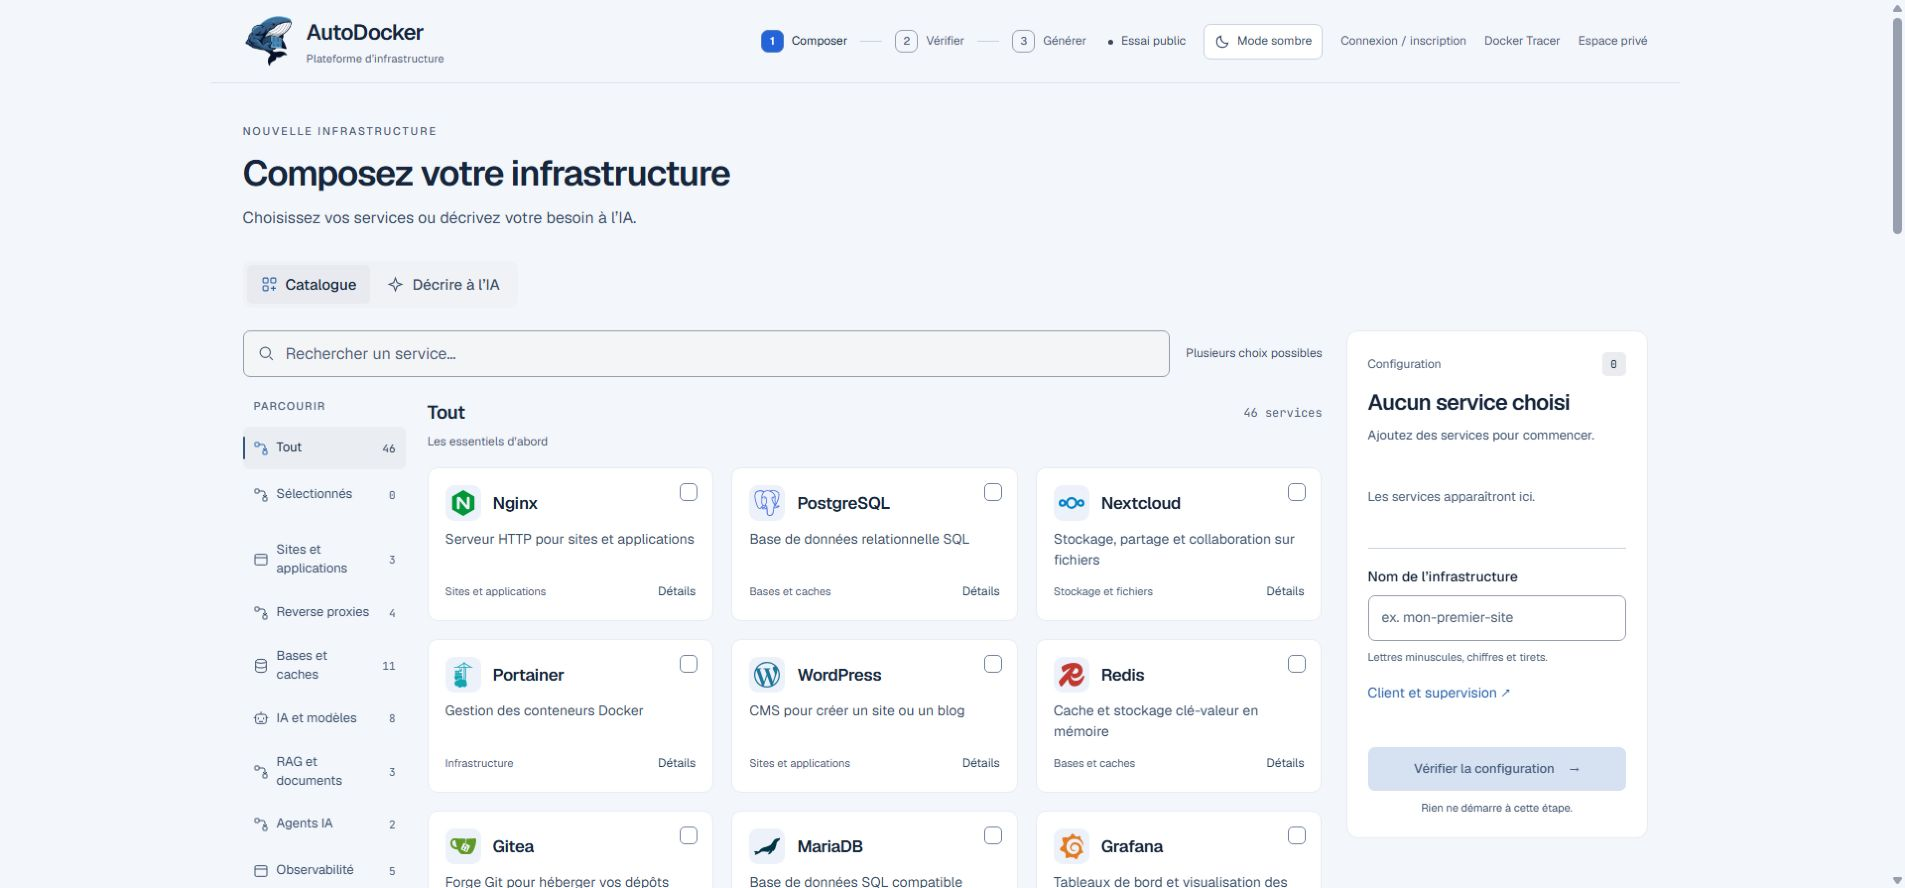
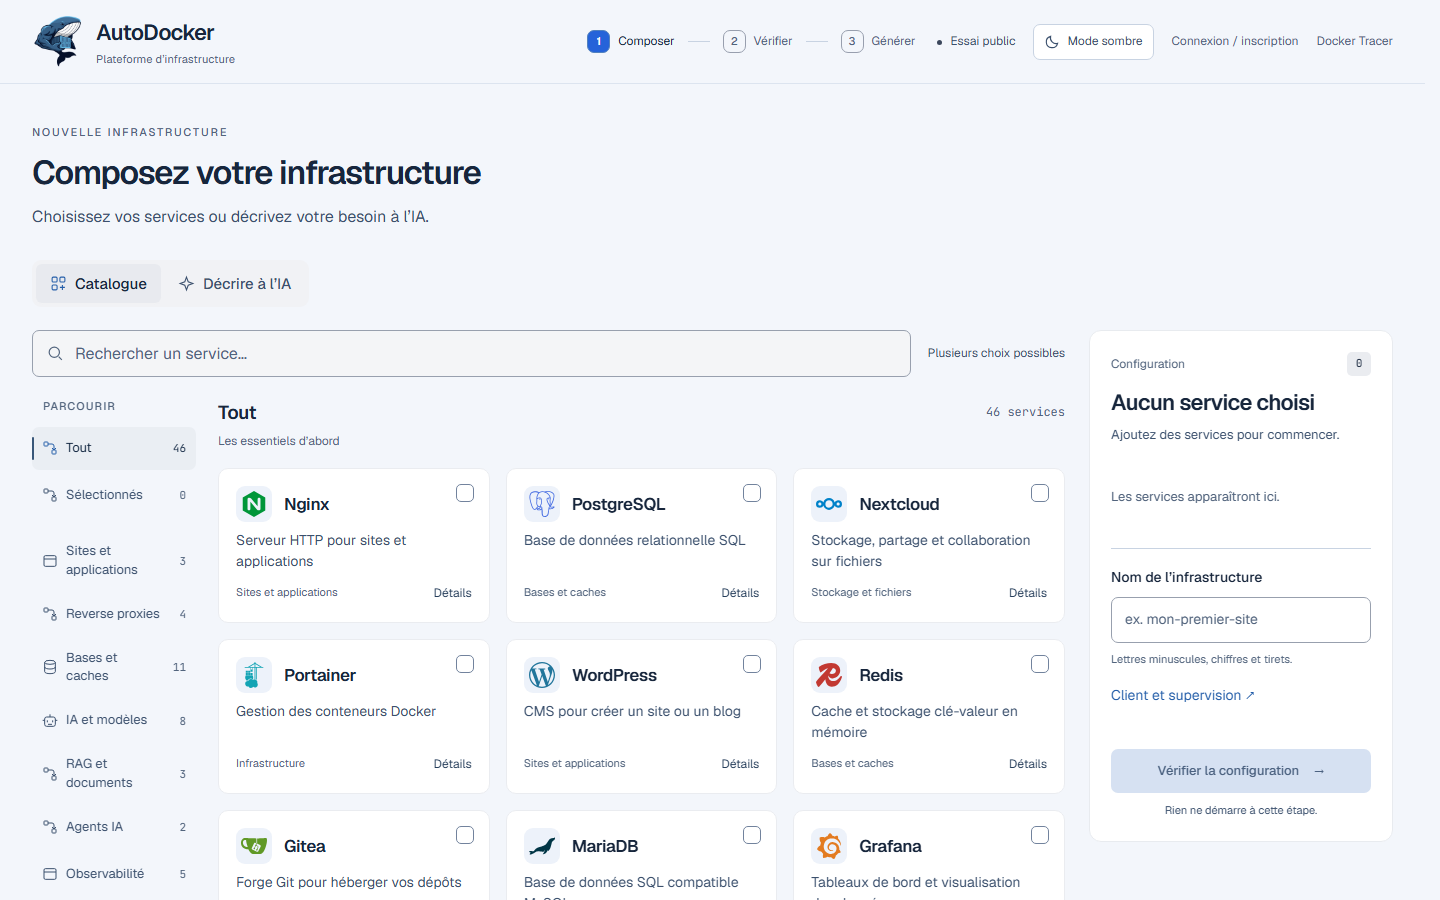
docs: clarify README and add visual demonstrations

diff --git a/README.md b/README.md
@@ -1,64 +1,71 @@
+<div align="center">
+
+<img src="docs/assets/logo.png" alt="Logo AutoDocker" width="200">
+
 # AutoDocker
 
-<img src="docs/assets/logo.png" alt="Logo AutoDocker" width="180">
+**Créer une infrastructure Docker, du besoin au fichier Compose.**
 
-AutoDocker aide à créer une infrastructure Docker à partir d'un formulaire ou d'une demande en langage naturel. L'application locale peut aussi se connecter à Docker ou Docker Desktop et à une IA locale (Ollama, LM Studio, vLLM) ou à une API, depuis l'interface graphique. La génération manuelle reste utilisable sans fournisseur d'IA ni moteur Docker.
+Choisissez vos services ou décrivez votre idée à l’IA, vérifiez la configuration et exportez votre infrastructure.
 
-**Essayer en ligne :** [autodocker.eu/essai](https://autodocker.eu/essai/) - génération, export et visualisation d'un fichier Compose. L'essai public dispose d'une IA réelle avec quota. Il n'expose pas les fonctions locales de gestion de l'hôte Docker.
+[![Essayer en ligne](https://img.shields.io/badge/Essayer_en_ligne-2864D9?style=for-the-badge)](https://autodocker.eu/essai/)
+[![Télécharger Windows x64](https://img.shields.io/badge/Windows_x64-142641?style=for-the-badge)](https://github.com/caroneloham/autodocker/releases/download/v0.1.0-beta.7/AutoDocker-Windows-x64-preview.zip)
+[![Télécharger Linux x64](https://img.shields.io/badge/Linux_x64-142641?style=for-the-badge)](https://github.com/caroneloham/autodocker/releases/download/v0.1.0-beta.7/AutoDocker-Linux-x64-preview.tar.gz)
 
-**Installer sur son ordinateur :** [télécharger la dernière version pour Windows ou Linux](https://github.com/caroneloham/autodocker/releases), extraire l'archive complète et lancer le script fourni. Le premier lancement ouvre la création du compte propriétaire. Les comptes, projets et réglages restent dans le dossier extrait ; gardez ce dossier pour conserver vos données. Docker est nécessaire pour inspecter ou gérer des conteneurs, mais pas pour générer des fichiers.
+Version **0.1.0-beta.7** · [Toutes les versions](https://github.com/caroneloham/autodocker/releases) · [Documentation](#documentation)
 
-![Interface AutoDocker](docs/assets/demo.png)
+</div>
 
-## Construire depuis les sources
+![AutoDocker : catalogue de services et configuration d’une infrastructure](docs/assets/demo.png)
 
-Il faut Go **1.26.10** ou une version compatible avec [`go.mod`](go.mod). Les lancements locaux ci-dessous restent limités à `127.0.0.1` et créent un compte propriétaire sans mot de passe prédéfini. Leur état est placé dans `.local/state/`, ignoré par Git. N'exposez pas ce mode local sur le réseau.
+## Ce que vous pouvez faire
 
-```sh
-go test ./...
-go build -o autodocker .
-```
+| Composer | Utiliser votre IA | Vérifier | Exporter |
+| :--- | :--- | :--- | :--- |
+| Sélectionner les services dans le catalogue et régler leur configuration. | Brancher Ollama, LM Studio, vLLM ou une API depuis l’interface locale. | Relire la configuration et visualiser les services et leurs connexions. | Récupérer les fichiers de l’infrastructure pour préparer son déploiement. |
 
-Sous Linux, lancez `sh scripts/run-local.sh`. Sous Windows, lancez `scripts\run-local.cmd` après avoir installé Go. Ces scripts utilisent `go run .` et ouvrent l'interface sur `http://127.0.0.1:18743`. Dans **Mon compte**, vous pouvez ensuite choisir une IA locale ou une API et connecter Docker depuis l'interface. Aucun identifiant ni clé d'API n'est inclus dans ce dépôt.
+La génération manuelle fonctionne sans IA et sans moteur Docker. L’application locale peut se connecter à Docker ou Docker Desktop depuis **Mon compte**.
 
-## Essai public et visualiseur Docker Tracer
+<details>
+<summary><strong>Voir une courte démonstration</strong></summary>
 
-`cmd/trial` est un serveur distinct : génération et export sans compte, IA soumise à quota, comptes réservés à l'essai. Il ne déclare aucune route de terminal, de déploiement Docker ou de gestion de l'hôte. Son visualiseur de fichier Compose est construit à partir du projet frère [Docker Tracer](https://github.com/caroneloham/docker-tracer). **Le code source de Docker Tracer n'est pas copié ici.**
+![Démonstration de l’interface AutoDocker](docs/assets/demo.gif)
 
-La construction de cette interface demande aussi Node.js et npm.
+</details>
 
-Pour préparer l'interface complète de l'essai dans un clone local :
+## Démarrer
 
-```sh
-git clone https://github.com/caroneloham/autodocker.git
-git clone https://github.com/caroneloham/docker-tracer.git
-cd docker-tracer
-npm ci
-npm run build:browser
-cd ../autodocker
-python scripts/build-trial-ui.py
-go build -o autodocker-trial ./cmd/trial
-```
+### Dans le navigateur
 
-Placez les deux dépôts côte à côte. `npm run build:browser` construit le visualiseur depuis les sources de Docker Tracer ; le script Python l'assemble dans `cmd/trial/ui/tracer/` avec l'interface de l'essai. Ce répertoire généré n'est pas versionné ; il faut reconstruire l'interface après un clone avant d'utiliser `/essai/tracer/`. Le serveur d'essai sert les fichiers de `cmd/trial/ui/` depuis son répertoire de travail, ou depuis le chemin défini par `AUTODOCKER_TRIAL_ASSETS`.
+Ouvrez [autodocker.eu/essai](https://autodocker.eu/essai/), composez votre infrastructure et exportez vos fichiers. L’IA de l’essai est soumise à un quota : deux demandes par jour sans compte, puis cinq avec un compte. Les [limites détaillées](docs/Essai-public.md) sont documentées.
 
-Pour un essai **strictement local**, fournissez ces variables d'environnement au processus `go run ./cmd/trial` :
+L’essai permet de générer, exporter et visualiser un Compose. La gestion d’un hôte Docker est disponible dans l’application locale.
 
-| Variable | Usage |
-| --- | --- |
-| `AUTODOCKER_TRIAL_LOCAL=1` | Cookie de session adapté à HTTP pour un lancement strictement local ; gardez l'adresse d'écoute par défaut. |
-| `AUTODOCKER_TRIAL_QUOTA_FILE` | Chemin d'un fichier JSON de quotas dans un dossier privé et inscriptible. |
-| `AUTODOCKER_TRIAL_ACCOUNTS_FILE` | Chemin d'un fichier JSON de comptes dans un dossier privé et inscriptible. |
-| `GEMINI_API_KEY` ou `OPENROUTER_API_KEY` | Clé du fournisseur d'IA, fournie hors dépôt. |
+### Sur votre ordinateur
 
-Le serveur est alors accessible sur `http://127.0.0.1:18082/essai/`. Pour l'hébergement public, le mode local doit être désactivé : fournir une clé de cookie stable de 32 octets bruts via `AUTODOCKER_TRIAL_COOKIE_KEY_FILE`, limiter l'écoute au mandataire HTTPS de confiance et conserver les fichiers d'état hors du dépôt. `AUTODOCKER_TRIAL_ADDR` règle l'adresse d'écoute. Le fichier Compose chargé dans le visualiseur est interprété dans le navigateur ; la carte montre la déclaration, sans vérifier l'état réel d'un hôte Docker.
+| Windows x64 | Linux x64 |
+| :--- | :--- |
+| [Télécharger le ZIP](https://github.com/caroneloham/autodocker/releases/download/v0.1.0-beta.7/AutoDocker-Windows-x64-preview.zip), puis l’extraire entièrement. | [Télécharger l’archive](https://github.com/caroneloham/autodocker/releases/download/v0.1.0-beta.7/AutoDocker-Linux-x64-preview.tar.gz), puis l’extraire entièrement. |
+| Double-cliquer sur **Lancer AutoDocker.cmd**. | Ouvrir un terminal dans le dossier et lancer `./lancer-autodocker.sh`. |
 
-Les limites actuelles de l'IA sont **2 demandes par cookie invité et par jour UTC**, avec un plafond additionnel de **6 par IP et par jour**, puis **5 par compte et par jour** ; le plafond commun est **40 demandes par jour**. Une demande est exécutée à la fois et une autre peut patienter. Les autres limites de requêtes et d'inscription se trouvent dans `cmd/trial`. Les quotas limitent les abus ordinaires, sans constituer une protection absolue. Un compte d'essai n'a actuellement ni vérification d'adresse e-mail ni récupération de mot de passe.
+Le navigateur s’ouvre pour créer votre compte propriétaire. Dans **Mon compte**, vous pouvez ensuite connecter Docker et choisir votre IA. Les comptes, projets et réglages restent dans le dossier extrait : conservez-le pour garder vos données.
 
-## Portée et licence
+## Deux projets complémentaires
 
-Les fichiers générés doivent être relus avant un déploiement réel. Une prévisualisation ne prouve pas qu'une infrastructure est adaptée ou sûre en production. L'IA dépend d'un fournisseur configuré par l'utilisateur ou l'exploitant.
+**AutoDocker** aide à créer l’infrastructure initiale. **[Docker Tracer](https://github.com/caroneloham/docker-tracer)** permet d’explorer un Compose sur une carte, d’éditer sa configuration et, en local, de travailler sur une installation Docker existante.
 
-Ce dépôt est publié sous la [licence AutoDocker et Docker Tracer 1.0](LICENSE), **à code source accessible**. L'usage en entreprise, les modifications et la vente des infrastructures ou prestations produites sont permis selon ses conditions. La vente du logiciel ou d'un accès SaaS payant est interdite. Ce n'est **pas** une licence open source approuvée par l'OSI. Les composants tiers conservent leurs propres licences et marques ; voir [les notices](docs/attributions/Logos-et-marques.txt).
+## Documentation
 
-Les contributions sont décrites dans [CONTRIBUTING.md](CONTRIBUTING.md), et le signalement responsable de vulnérabilités dans [SECURITY.md](SECURITY.md).
+- [Développer depuis les sources](docs/Developper.md) : prérequis Go, tests et lancement local.
+- [Construire et héberger l’essai public](docs/Essai-public.md) : Docker Tracer, configuration et quotas.
+- [Contribuer](CONTRIBUTING.md) · [Signaler une vulnérabilité](SECURITY.md) · [Logos et marques](docs/attributions/Logos-et-marques.txt).
+
+## État du projet et licence
+
+AutoDocker est en **bêta**. Relisez les fichiers générés avant un déploiement réel. La configuration d’une IA et les fonctions Docker dépendent des services que vous connectez. Le serveur local reste sur `127.0.0.1` et ne doit pas être exposé directement sur Internet.
+
+Le code est accessible sous la [licence AutoDocker et Docker Tracer 1.0](LICENSE). L’usage en entreprise, les modifications et la vente des infrastructures produites sont permis selon ses conditions. La vente du logiciel ou d’un accès SaaS payant est interdite. Cette licence n’est pas une licence open source approuvée par l’OSI. Les composants tiers conservent leurs propres conditions.
+
+## Remerciements
+
+Merci à [IngéPLUS](https://inge-plus.fr/avr-2026-bourses-ia-bac3-ingeplus-accompagne-les-talents-de-bts-vers-les-metiers-de-lia/) pour son soutien financier à travers la bourse qui m’avait été accordée à l’époque.

diff --git a/docs/Essai-public.md b/docs/Essai-public.md
@@ -1,0 +1,36 @@
+# Construire et héberger l’essai public
+
+[Retour au README](../README.md)
+
+
+`cmd/trial` est un serveur distinct : génération et export sans compte, IA soumise à quota, comptes réservés à l'essai. Il ne déclare aucune route de terminal, de déploiement Docker ou de gestion de l'hôte. Son visualiseur de fichier Compose est construit à partir du projet frère [Docker Tracer](https://github.com/caroneloham/docker-tracer). **Le code source de Docker Tracer n'est pas copié ici.**
+
+La construction de cette interface demande aussi Node.js et npm.
+
+Pour préparer l'interface complète de l'essai dans un clone local :
+
+```sh
+git clone https://github.com/caroneloham/autodocker.git
+git clone https://github.com/caroneloham/docker-tracer.git
+cd docker-tracer
+npm ci
+npm run build:browser
+cd ../autodocker
+python scripts/build-trial-ui.py
+go build -o autodocker-trial ./cmd/trial
+```
+
+Placez les deux dépôts côte à côte. `npm run build:browser` construit le visualiseur depuis les sources de Docker Tracer ; le script Python l'assemble dans `cmd/trial/ui/tracer/` avec l'interface de l'essai. Ce répertoire généré n'est pas versionné ; il faut reconstruire l'interface après un clone avant d'utiliser `/essai/tracer/`. Le serveur d'essai sert les fichiers de `cmd/trial/ui/` depuis son répertoire de travail, ou depuis le chemin défini par `AUTODOCKER_TRIAL_ASSETS`.
+
+Pour un essai **strictement local**, fournissez ces variables d'environnement au processus `go run ./cmd/trial` :
+
+| Variable | Usage |
+| --- | --- |
+| `AUTODOCKER_TRIAL_LOCAL=1` | Cookie de session adapté à HTTP pour un lancement strictement local ; gardez l'adresse d'écoute par défaut. |
+| `AUTODOCKER_TRIAL_QUOTA_FILE` | Chemin d'un fichier JSON de quotas dans un dossier privé et inscriptible. |
+| `AUTODOCKER_TRIAL_ACCOUNTS_FILE` | Chemin d'un fichier JSON de comptes dans un dossier privé et inscriptible. |
+| `GEMINI_API_KEY` ou `OPENROUTER_API_KEY` | Clé du fournisseur d'IA, fournie hors dépôt. |
+
+Le serveur est alors accessible sur `http://127.0.0.1:18082/essai/`. Pour l'hébergement public, le mode local doit être désactivé : fournir une clé de cookie stable de 32 octets bruts via `AUTODOCKER_TRIAL_COOKIE_KEY_FILE`, limiter l'écoute au mandataire HTTPS de confiance et conserver les fichiers d'état hors du dépôt. `AUTODOCKER_TRIAL_ADDR` règle l'adresse d'écoute. Le fichier Compose chargé dans le visualiseur est interprété dans le navigateur ; la carte montre la déclaration, sans vérifier l'état réel d'un hôte Docker.
+
+Les limites actuelles de l'IA sont **2 demandes par cookie invité et par jour UTC**, avec un plafond additionnel de **6 par IP et par jour**, puis **5 par compte et par jour** ; le plafond commun est **40 demandes par jour**. Une demande est exécutée à la fois et une autre peut patienter. Les autres limites de requêtes et d'inscription se trouvent dans `cmd/trial`. Les quotas limitent les abus ordinaires, sans constituer une protection absolue. Un compte d'essai n'a actuellement ni vérification d'adresse e-mail ni récupération de mot de passe.

diff --git a/docs/Developper.md b/docs/Developper.md
@@ -1,0 +1,13 @@
+# Développer AutoDocker
+
+[Retour au README](../README.md)
+
+
+Il faut Go **1.26.10** ou une version compatible avec [`go.mod`](../go.mod). Les lancements locaux ci-dessous restent limités à `127.0.0.1` et créent un compte propriétaire sans mot de passe prédéfini. Leur état est placé dans `.local/state/`, ignoré par Git. N'exposez pas ce mode local sur le réseau.
+
+```sh
+go test ./...
+go build -o autodocker .
+```
+
+Sous Linux, lancez `sh scripts/run-local.sh`. Sous Windows, lancez `scripts\run-local.cmd` après avoir installé Go. Ces scripts utilisent `go run .` et ouvrent l'interface sur `http://127.0.0.1:18743`. Dans **Mon compte**, vous pouvez ensuite choisir une IA locale ou une API et connecter Docker depuis l'interface. Aucun identifiant ni clé d'API n'est inclus dans ce dépôt.
